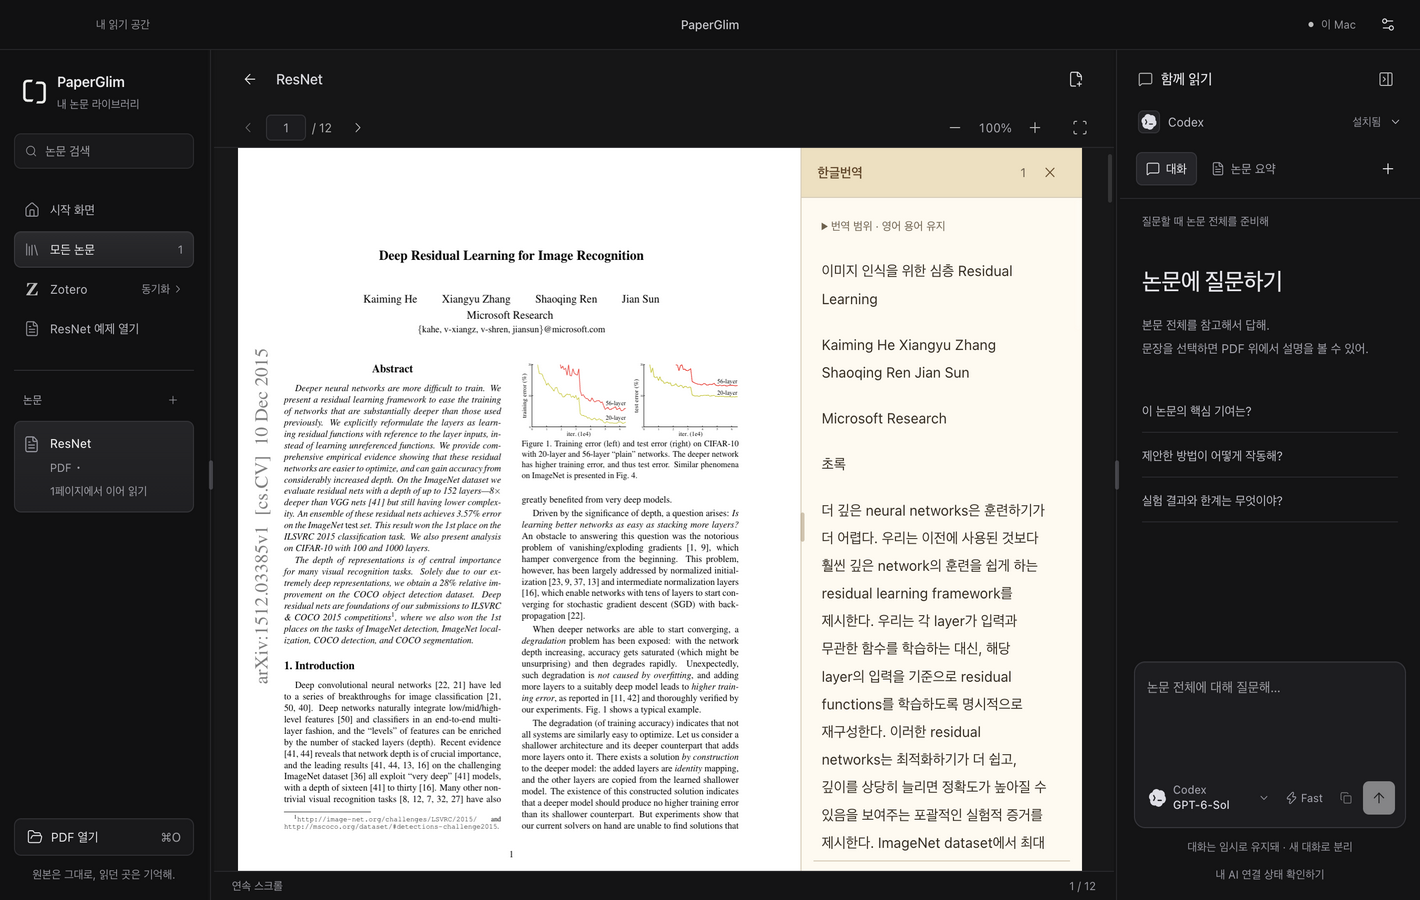
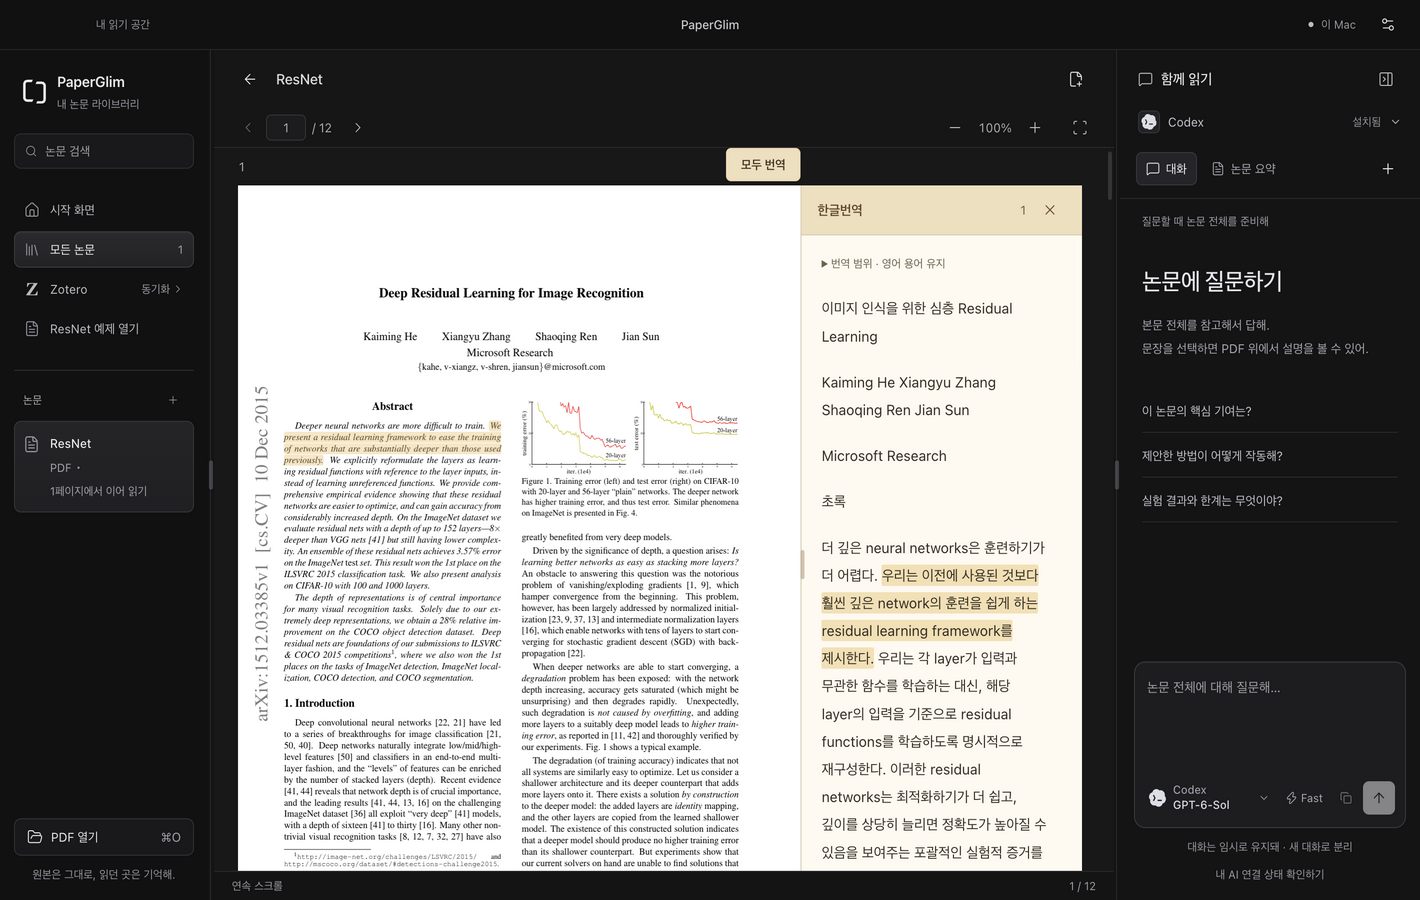
Show aligned translation hover in v0.1.5 screenshots

diff --git a/website/index.html b/website/index.html
@@ -48,7 +48,7 @@
           <p>페이지마다 필요한 만큼 한글번역을 열어보세요. 번역 문장에 마우스를 올리면 원문의 같은 부분이 함께 표시돼요. 핵심 영어 용어는 그대로 남겨두고요.</p>
           <p class="feature-footnote">한 페이지만, 또는 논문 전체를 번역할 수 있어요.</p>
         </div>
-        <figure class="detail-shot"><img src="assets/translation.png?v=0.1.5" width="844" height="764" loading="lazy" alt="한글번역 문장과 대응하는 영어 원문이 함께 강조된 실제 앱 화면"></figure>
+        <figure class="detail-shot"><img src="assets/translation.png?v=0.1.5" width="844" height="698" loading="lazy" alt="한글번역 문장과 대응하는 영어 원문이 함께 강조된 실제 앱 화면"></figure>
       </div>
       <div class="feature-pair">
         <article><svg class="feature-icon" viewBox="0 0 28 28" aria-hidden="true"><path d="M5 5h18v13H12l-6 5v-5H5V5Z"/><path d="M10 10h8m-8 4h5"/></svg><h3>궁금한 문장에 바로 질문.</h3><p>문장을 드래그해서 설명을 요청하거나 직접 물어보세요. 후속 질문도 이어갈 수 있고, 저장된 설명은 그 문장 위에서 다시 열려요.</p></article>
